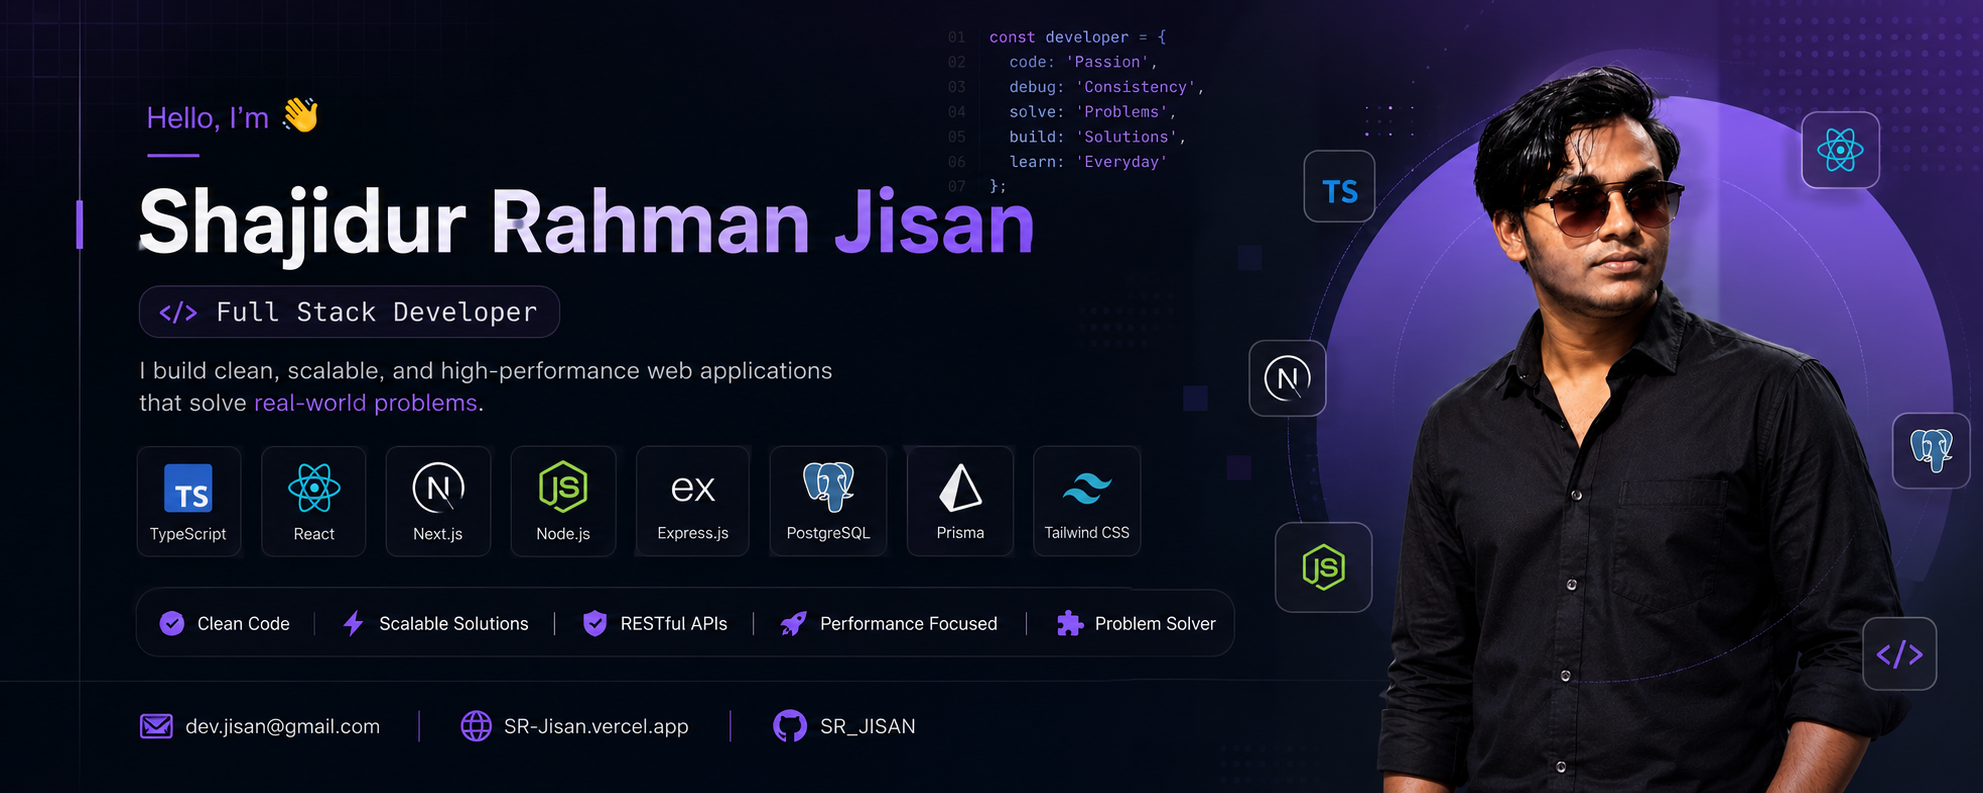
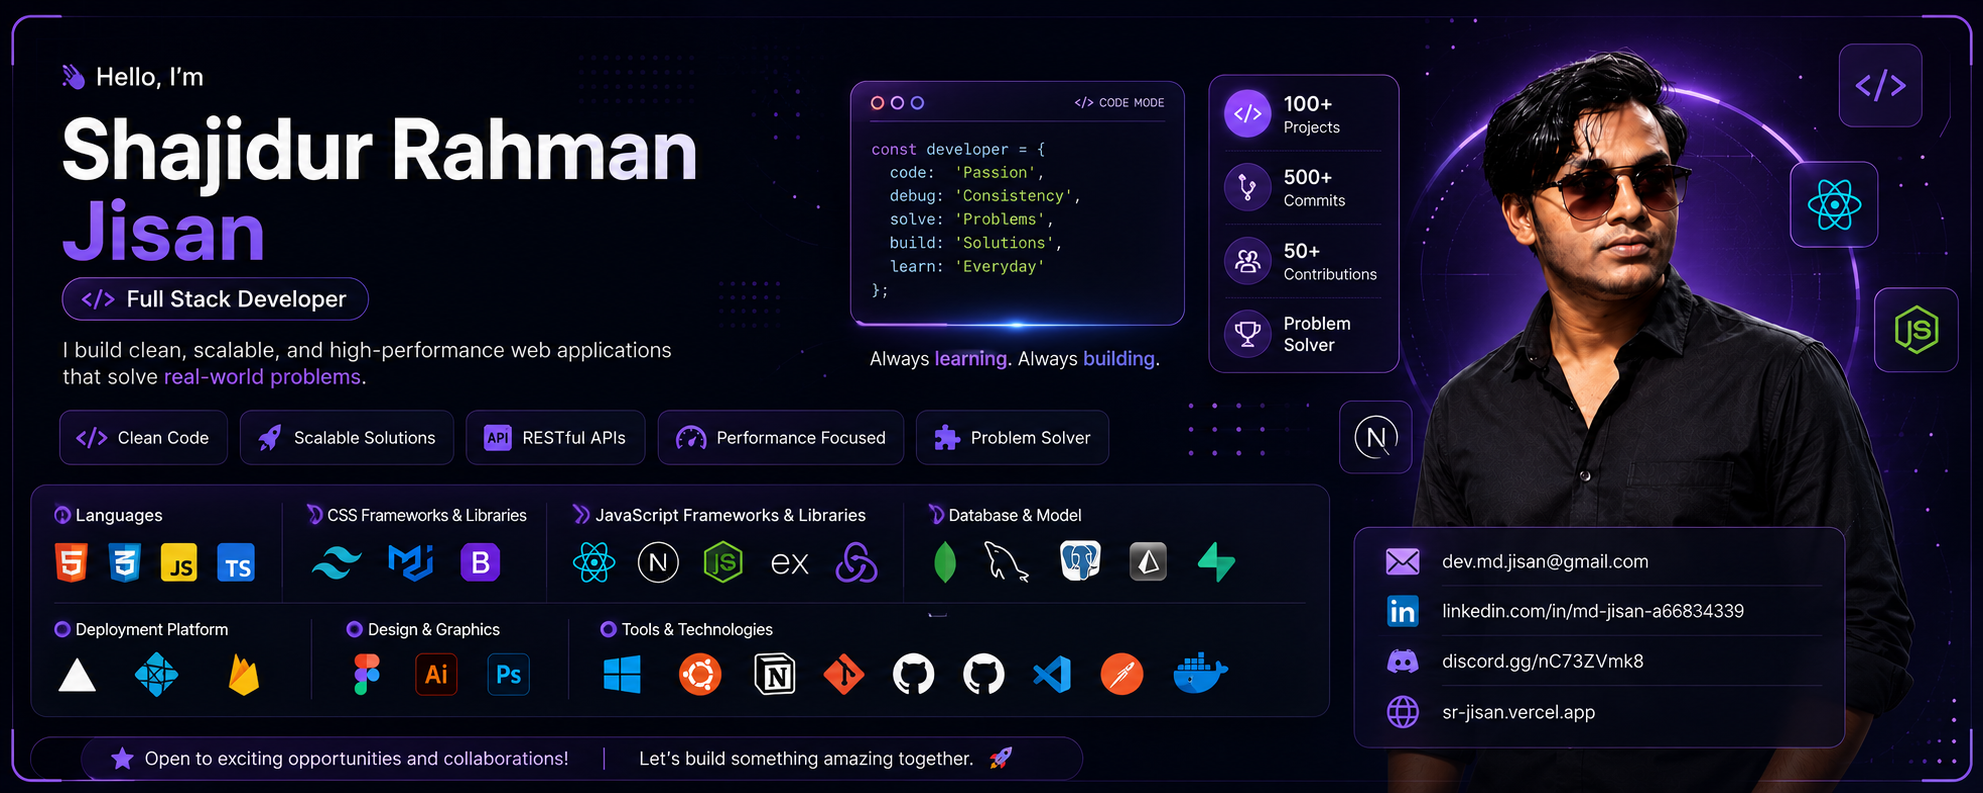
old

diff --git a/README.md b/README.md
@@ -1,86 +1,103 @@
-<!-- Banner -->
+<!-- - banner -
+<img src="./banner.png" alt="Hello world">
+
+<br/>
+
+<!--- title --->
+<div id="user-content-toc">
+  <ul align="center">
+    <summary><h1 style="display: inline-block">Hi 👋, I'm
+      </br> Shajidur Rahman Jisan</h1></summary>
+    <!--- typo --->
+    <a href="https://git.io/typing-svg"><img src="https://readme-typing-svg.demolab.com?font=Fira+Code&weight=800&pause=1000&color=FD4D02&center=true&vCenter=true&width=435&lines=Full-Stack+Software+Developer+;Transforming+ideas+into;Scalable+digital+products." alt="Typing SVG" /></a>
+  </ul>
+</div>
+
+<br/>
+
+<!--- about --->
+- 👋 Hi, I’m **[@SR-JISAN](https://github.com/SR-JISAN)**
+- 🖥 I’m currently working on **React.js, Next.js, Typescript and Redux** for frontend development.
+- 🗄 Using **Node.js, Express.js, MongoDB, Mongoose, PostgreSQL, and Prisma** for the backend.
+- 🛠 I’m currently learning **React Native, GraphQL, THREE.JS, Docker and AWS**.
+- 💬 Ask me about **Full-Stack (React, Next, Node, Express, MongoDB, PostgreSQL)**.
+- 🌐 Explore My Portfolio **[SR-JISAN](https://portfolio-front-usdb.vercel.app/)** and My **[Resume](https://drive.google.com/file/d/12XyIh9U2i49EHFkqnYEFZUlhEOiadhGU/view?usp=sharing)**
+- 📝 I regularly write articles on **[LinkedIn](https://www.linkedin.com/in/md-jisan-a66834339)**
+- 📫 Feel free to reach me out **[Email](dev.md.jisan@gmail.com)**
+  
+<br/>
+
+<!--- socials --->
+## <img src="https://media2.giphy.com/media/65qzUZckzeWG1wugLW/giphy.webp" width="35"><b> FOLLOW ME ON SOCIALS:</b>
+
+<div>
+  <p align="left">
+    <a href="https://www.linkedin.com/in/md-jisan-a66834339" target="_blank"><img src="https://skillicons.dev/icons?i=linkedin" alt="SR-JISAN" height="30" width="40" /></a>
+    <a href="https://discord.gg/nC73ZVmk8" target="blank"><img src="https://skillicons.dev/icons?i=discord" alt="mdjisan0633" height="30" width="40" /></a>
+    <a href="https://dev.to/mdJisan" target="blank"><img src="https://cdn.jsdelivr.net/npm/simple-icons@3.0.1/icons/dev-dot-to.svg" alt="touhidcodes" height="30" width="40" /></a>
+    <a href="https://stackoverflow.com/users/221041022" target="blank"><img src="https://raw.githubusercontent.com/rahuldkjain/github-profile-readme-generator/master/src/images/icons/Social/stack-overflow.svg" alt="22104988" height="30" width="40" /></a>
+  </p>
+</div>
+
+<br/>
+
+<!--- technology --->
+##  <img src="https://media4.giphy.com/media/KGhpQ5NMoWKQurlHwI/giphy.webp" width ="35"><b> TECHNOLOGY STACK:</b>
+
+### Languages:
+[![Languages](https://skillicons.dev/icons?i=html,css,javascript,typescript)](https://github.com/SR-JISAN)
+
+### CSS Frameworks & Libraries:
+[![CSS Frameworks & Libraries](https://skillicons.dev/icons?i=tailwind,materialui,bootstrap)](https://github.com/SR-JISAN)
+
+### JavaScript Frameworks & Libraries:
+[![JavaScript Frameworks & Libraries](https://skillicons.dev/icons?i=react,next,redux,nodejs,express)](https://github.com/SR-JISAN)
+
+### Database & Model:
+[![Database & Model](https://skillicons.dev/icons?i=mongodb,mysql,postgres,prisma,supabase)](https://github.com/SR-JISAN)
+
+### Deployment Platform:
+[![Deployment Platform](https://skillicons.dev/icons?i=vercel,netlify,firebase)](https://github.com/SR-JISAN)
+
+### Design & Graphics:
+[![Design & Graphics](https://skillicons.dev/icons?i=figma,ai,ps)](https://github.com/SR-JISAN)
+
+### Tools & Technologies:
+[![Tools & Technologies](https://skillicons.dev/icons?i=windows,ubuntu,notion,git,github,vscode,postman,docker)](https://github.com/SR-JISAN)
+
+<br/>
+
+<!--- statistics --->
+## <img src="https://media1.giphy.com/media/TJP7EH5i1fB2rKeWbf/giphy.webp" width="30"><b> GITHUB STATISTICS & ANALYSIS:</b>
+
+## 📈 GitHub Contributions
+
 <p align="center">
-  <img src="./banner.png" alt="Shajidur Rahman Jisan Banner" width="100%" />
+  <img src="https://raw.githubusercontent.com/SR-JISAN/contribution-snake/output/grid.svg" alt="Snake Animation" />
+</p>
+
+
+<p align="center">
+  <img height="170" src="https://github-readme-stats.vercel.app/api?username=SR-JISAN&show_icons=true&theme=swift&hide_border=true" />
+  <img height="170" src="https://github-readme-stats.vercel.app/api/top-langs/?username=SR-JISAN&layout=compact&theme=swift&hide_border=true" />
 </p>
 
 ---
 
-## <img src="https://media4.giphy.com/media/KGhpQ5NMoWKQurlHwI/giphy.webp" width="35"> <b>TECHNOLOGY STACK</b>
+## 🔥 GitHub Streak & Repository Stats
 
-### 💻 Languages
-<p>
-  <a href="https://github.com/SR-JISAN">
-    <img src="https://skillicons.dev/icons?i=html,css,js,ts" />
-  </a>
+<p align="center">
+  <img height="170" src="https://streak-stats.demolab.com?user=SR-JISAN&theme=swift&hide_border=true" />
+  <img height="170" src="https://github-contributor-stats.vercel.app/api?username=SR-JISAN&limit=5&theme=swift&combine_all_yearly_contributions=true&hide_border=true" />
 </p>
 
-### 🎨 CSS Frameworks & Libraries
-<p>
-  <a href="https://github.com/SR-JISAN">
-    <img src="https://skillicons.dev/icons?i=tailwind,bootstrap,materialui" />
-  </a>
-</p>
+<br/>
 
-### ⚛ JavaScript Frameworks & Libraries
-<p>
-  <a href="https://github.com/SR-JISAN">
-    <img src="https://skillicons.dev/icons?i=react,nextjs,nodejs,express,redux" />
-  </a>
-</p>
+<!--- random quote --->
+##  <img src="https://media2.giphy.com/media/QssGEmpkyEOhBCb7e1/giphy.gif" width ="30"><b> RANDOM DEV QUOTE:</b>
+<img src="https://quotes-github-readme.vercel.app/api?type=vertical&theme=light"/>
 
-### 🗄 Database & ORM
-<p>
-  <a href="https://github.com/SR-JISAN">
-    <img src="https://skillicons.dev/icons?i=mongodb,mysql,postgres,prisma,supabase" />
-  </a>
-</p>
-
-### ☁ Deployment Platforms
-<p>
-  <a href="https://github.com/SR-JISAN">
-    <img src="https://skillicons.dev/icons?i=vercel,netlify,firebase" />
-  </a>
-</p>
-
-### 🎨 Design & Graphics
-<p>
-  <a href="https://github.com/SR-JISAN">
-    <img src="https://skillicons.dev/icons?i=figma,ps,ai" />
-  </a>
-</p>
-
-### 🛠 Tools & Technologies
-<p>
-  <a href="https://github.com/SR-JISAN">
-    <img src="https://skillicons.dev/icons?i=git,github,vscode,postman,docker,windows,ubuntu,notion" />
-  </a>
-</p>
-
----
-
-## 🌐 Connect with Me
-
-<p align="left">
-  <a href="mailto:dev.jisan@gmail.com">
-    <img src="https://skillicons.dev/icons?i=gmail" height="45" />
-  </a>
-  &nbsp;&nbsp;
-  <a href="https://www.linkedin.com/in/md-jisan-a66834339" target="_blank">
-    <img src="https://skillicons.dev/icons?i=linkedin" height="45" />
-  </a>
-  &nbsp;&nbsp;
-  <a href="https://discord.gg/nC73ZVmk8" target="_blank">
-    <img src="https://skillicons.dev/icons?i=discord" height="45" />
-  </a>
-  &nbsp;&nbsp;
-  <a href="https://sr-jisan.vercel.app" target="_blank">
-    <img src="https://skillicons.dev/icons?i=vercel" height="45" />
-  </a>
-  &nbsp;&nbsp;
-  <a href="https://github.com/SR-JISAN" target="_blank">
-    <img src="https://skillicons.dev/icons?i=github" height="45" />
-  </a>
-</p>
+--- -->
 
 <!--- visit count --->
 <p align="left"> <img src="https://komarev.com/ghpvc/?username=SR-JISAN&label=Profile%20views&color=0e75b6&style=flat" alt="SR-JISAN" /> </p>
